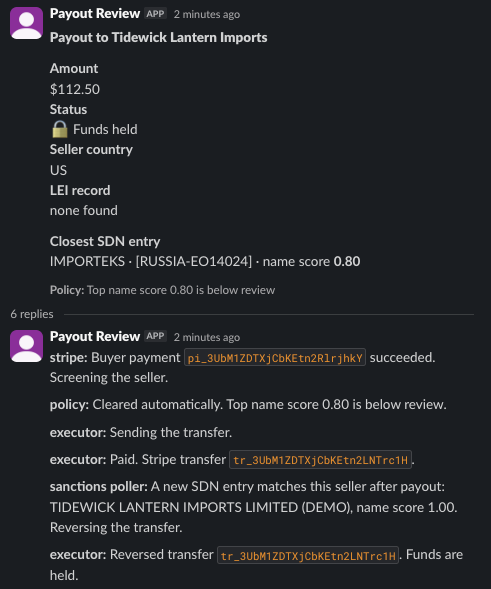
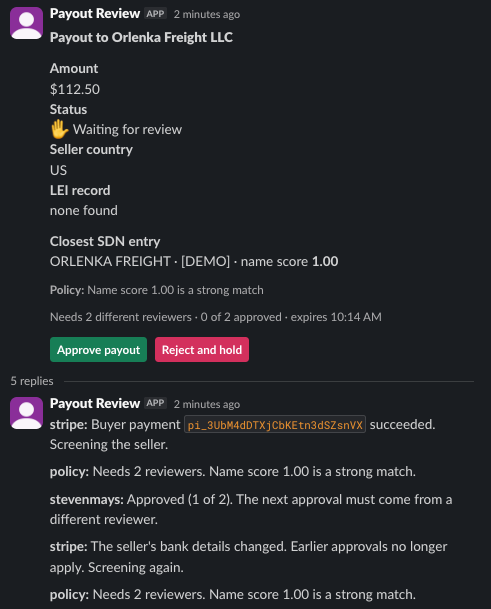
fix: let a stale Slack card claim expire; document live-run findings

Changed region(s): [[0.0, 0.0, 0.947, 1.0], [0.0305, 0.0, 0.0916, 0.0917]]

diff --git a/packages/core/src/slack/sync.ts b/packages/core/src/slack/sync.ts
@@ -1,9 +1,11 @@
 import { randomUUID } from "node:crypto";
 import { setTimeout as sleep } from "node:timers/promises";
+import { sql } from "kysely";
 import type { Deps } from "../deps.js";
 import { renderCard } from "./card.js";
 
 const PENDING = "pending:";
+const STALE_CLAIM_MS = 30_000;
 
 /**
  * Makes Slack match the database: one card per saga, updated in place, and one
@@ -23,12 +25,22 @@ export async function syncSlack(deps: Deps, sagaId: string): Promise<void> {
 
 async function ensureCard(deps: Deps, sagaId: string): Promise<string | null> {
   const { db, chat } = deps;
-  const claim = `${PENDING}${randomUUID()}`;
+  // The claim carries its time, so a claim left by a Lambda that died mid-post expires.
+  const claim = `${PENDING}${Date.now()}:${randomUUID()}`;
+  const staleBefore = Date.now() - STALE_CLAIM_MS;
   const claimed = await db
     .updateTable("sagas")
     .set({ slack_ts: claim, slack_channel: deps.config.slackChannel })
     .where("id", "=", sagaId)
-    .where("slack_ts", "is", null)
+    .where((eb) =>
+      eb.or([
+        eb("slack_ts", "is", null),
+        eb.and([
+          eb("slack_ts", "like", `${PENDING}%`),
+          eb(sql<number>`split_part(slack_ts, ':', 2)::bigint`, "<", staleBefore),
+        ]),
+      ]),
+    )
     .returningAll()
     .executeTakeFirst();
   if (claimed) {

diff --git a/packages/core/src/stripe/payments.test.ts b/packages/core/src/stripe/payments.test.ts
@@ -1,0 +1,31 @@
+import type Stripe from "stripe";
+import { describe, expect, it } from "vitest";
+import { payloadHash, StripePayments } from "./payments.js";
+
+function stripeWithBank(id: string) {
+  const account = {
+    country: "US",
+    company: { name: "Orlenka Freight LLC" },
+    external_accounts: {
+      data: [
+        {
+          object: "bank_account",
+          id,
+          fingerprint: "same",
+          last4: "6789",
+          default_for_currency: true,
+        },
+      ],
+    },
+  };
+  return { accounts: { retrieve: async () => account } } as unknown as Stripe;
+}
+
+describe("StripePayments.getSeller", () => {
+  it("treats a new bank record as a change even with the same account number", async () => {
+    const before = await new StripePayments(stripeWithBank("ba_1")).getSeller("acct_1");
+    const after = await new StripePayments(stripeWithBank("ba_2")).getSeller("acct_1");
+    const saga = { amount: 11_250, currency: "usd" };
+    expect(payloadHash(saga, after)).not.toBe(payloadHash(saga, before));
+  });
+});

diff --git a/packages/core/src/slack/slack.test.ts b/packages/core/src/slack/slack.test.ts
@@ -41,4 +41,23 @@ describe("renderCard", () => {
     const card = renderCard(saga, [{ reviewer: "U1", reviewer_name: "Ana" }]);
     expect(JSON.stringify(card.blocks)).toContain("1 of 2 approved (Ana)");
   });
+
+  it("asks for 1 reviewer without saying 'different'", () => {
+    const card = renderCard({ ...saga, required_approvals: 1 } as Saga, []);
+    expect(JSON.stringify(card.blocks)).toContain("Needs 1 reviewer · 0 of 1 approved");
+  });
+
+  it("wraps multi-program SDN entries in brackets", () => {
+    const screening = {
+      seller: { legalName: "Brindlecove Ceramics LLC", country: "US" },
+      lei: null,
+      candidates: [
+        { name: "CEIEC", matchedName: "CEIEC", program: "VENEZUELA] [CUBA-EO14404", score: 0.77 },
+      ],
+      assessment: null,
+      decision: { tier: "clear", requiredApprovals: 0, reason: "x" },
+    };
+    const card = renderCard({ ...saga, status: "paid", screening } as Saga, []);
+    expect(JSON.stringify(card.blocks)).toContain("CEIEC · [VENEZUELA] [CUBA-EO14404]");
+  });
 });

diff --git a/packages/core/src/saga/saga.test.ts b/packages/core/src/saga/saga.test.ts
@@ -331,4 +331,17 @@ describe("slack sync", () => {
     expect(deps.chat.posts).toHaveLength(1);
     expect(deps.chat.replies).toHaveLength(1);
   });
+
+  it("takes over a card claim left by a Lambda that died while posting", async () => {
+    deps.payments.addSeller("acct_clean", "Brindlecove Ceramics LLC");
+    await pay("acct_clean");
+    const s = await saga();
+    const deadClaim = `pending:${Date.now() - 60_000}:dead-worker`;
+    await deps.db.updateTable("sagas").set({ slack_ts: deadClaim }).execute();
+
+    await syncSlack(deps, s.id);
+
+    expect(deps.chat.posts).toHaveLength(1);
+    expect((await saga()).slack_ts).toBe("ts_1");
+  });
 });

diff --git a/README.md b/README.md
@@ -2,7 +2,7 @@
 
 A reference app for one question: how do you put a person inside an event-driven workflow without paying anyone twice, losing a message, or trusting a model's output blindly?
 
-A marketplace pays out to sellers through Stripe Connect (test mode). Before money moves, the app screens each seller against the US Treasury OFAC SDN list. A Claude model weighs the close calls. A compliance reviewer approves or rejects the flagged payouts in Slack. Only an approved decision releases the transfer, and a double-entry ledger records every movement.
+A marketplace pays out to sellers through Stripe Connect (test mode). Before money moves, the app screens each seller against the US Treasury OFAC SDN list. A Claude model weighs the close calls. A compliance reviewer approves or rejects the flagged payouts in Slack. Only an approved decision releases the transfer. The marketplace keeps a 10% commission, so a $125.00 payment pays the seller $112.50, and a double-entry ledger records every movement, including the commission.
 
 This is a demo. It isn't legal or compliance advice, and it screens company names only. The seller names are invented. The demo screens them against the real SDN list plus 3 fictional entries, so every near miss in the demo matches a fictional entry.
 
@@ -84,6 +84,10 @@ PGlite has one connection, so the tests can't prove a race between two Lambdas. 
 
 You need an AWS account, a [Neon](https://neon.tech) Postgres database, a Stripe account in test mode with Connect, a Slack workspace, and an Anthropic API key.
 
+Before `setup` can create sellers, Stripe requires 2 acknowledgments in **Settings > Connect > Platform profile**: the refunds and chargebacks liability acknowledgment, and the ongoing seller compliance acknowledgment. These are account settings, not test-mode settings.
+
+If `sst` reports that AWS credentials aren't configured after `aws login`, export them into the shell first: `eval "$(aws configure export-credentials --format env)"`.
+
 1. Set the secrets. SST stores them in AWS SSM. Leave the value off the command line so it stays out of your shell history. SST reads it from standard input, so `< file` also works.
 
    ```sh
@@ -132,6 +136,8 @@ The queue consumer long-polls SQS, and the sweeper and poller wake the database 
 ## Known limits
 
 - Slack has no idempotency key. A crash between posting a card and saving its timestamp can post a second card. Its buttons stay safe, because every click is checked against the saga row.
-- Stripe can drop an idempotency key after 24 hours. The transfer step looks for an existing transfer by `transfer_group` before it creates one.
+- Stripe can drop an idempotency key after 24 hours. The transfer step looks for an existing transfer to the seller with its saga ID in `metadata` before it creates one.
 - In test mode, Stripe retries a failed webhook only 3 times over a few hours.
+- The approval hash uses the bank account's record ID, not its fingerprint. Re-adding even the same account number voids an approval, which is the conservative choice for fraud control.
+- The 10% commission also covers Stripe's processing fee. A transfer can't exceed what the charge added to the platform's available balance.
 - The demo doesn't release held funds. A real system needs a second, audited path for that.
